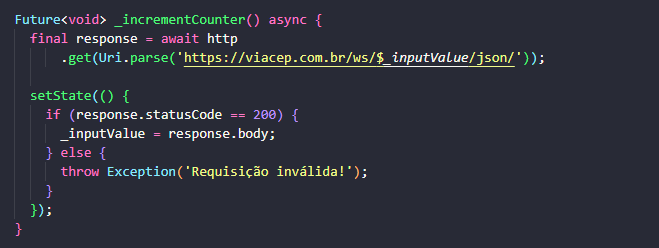
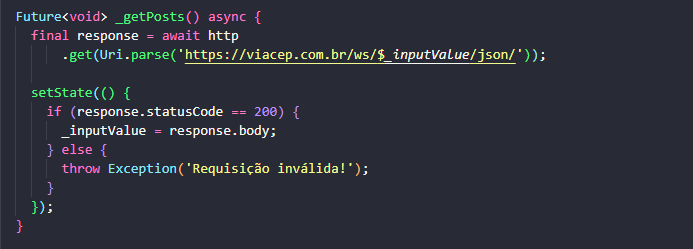
img request result

diff --git a/lib/main.dart b/lib/main.dart
@@ -33,7 +33,7 @@ class MyHomePage extends StatefulWidget {
 class _MyHomePageState extends State<MyHomePage> {
   String _inputValue = '';
 
-  Future<void> _incrementCounter() async {
+  Future<void> _getPosts() async {
     final response = await http
         .get(Uri.parse('https://viacep.com.br/ws/$_inputValue/json/'));
 
@@ -73,7 +73,8 @@ class _MyHomePageState extends State<MyHomePage> {
             const Padding(
               padding: EdgeInsets.all(23.0),
               child: Text(
-                'Information',
+                'Request result',
+                style: TextStyle(fontWeight: FontWeight.bold, fontSize: 16.0),
               ),
             ),
             Text(
@@ -86,8 +87,7 @@ class _MyHomePageState extends State<MyHomePage> {
         ),
       ),
       floatingActionButton: FloatingActionButton(
-        onPressed: _incrementCounter,
-        tooltip: 'Increment',
+        onPressed: _getPosts,
         child: const Icon(Icons.add),
       ), // This trailing comma makes auto-formatting nicer for build methods.
     );
